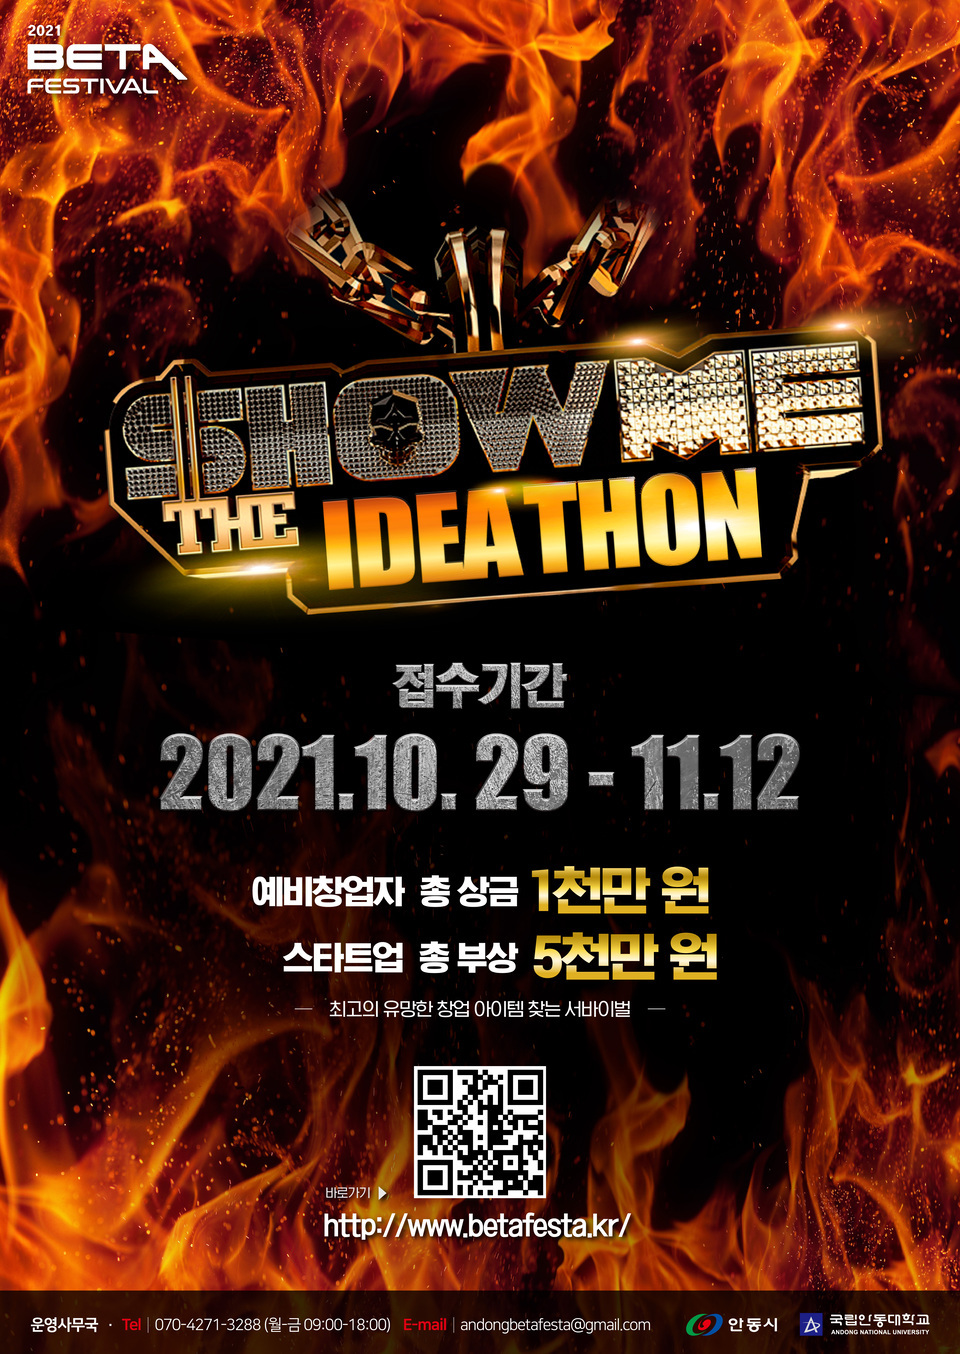
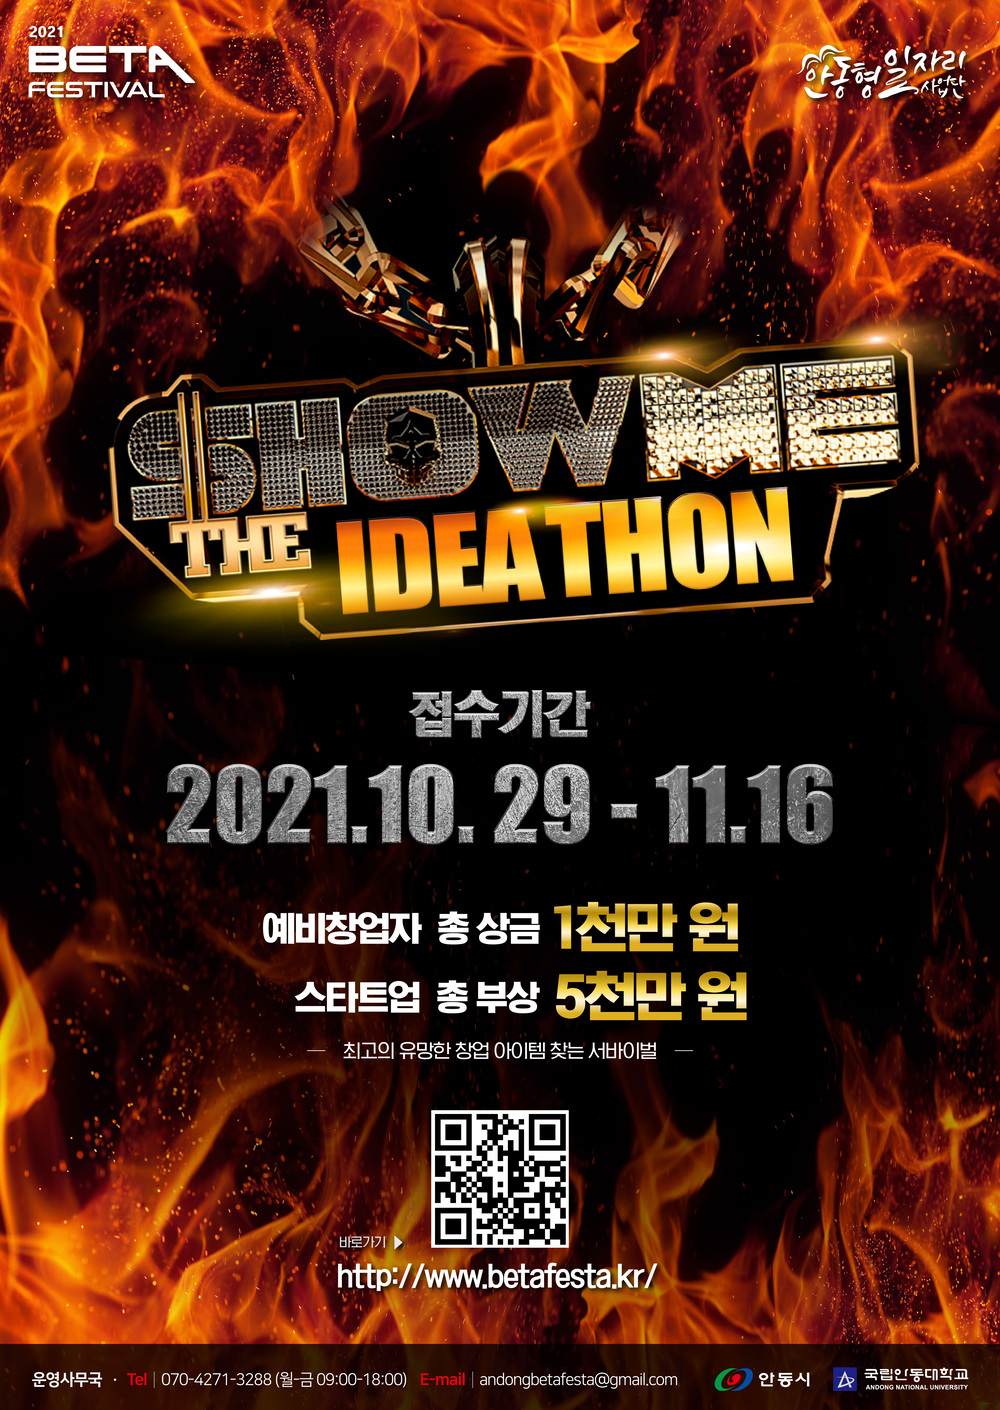
update deadline

diff --git a/components/pages/ideaton/Section1.tsx b/components/pages/ideaton/Section1.tsx
@@ -6,28 +6,20 @@ export const Section1 = () => {
   return (
     <div className={styles.container}>
       <div className={styles.display}>
-        <div className={styles.titleDesktop}>
-          『2021 BETA 페스티벌』 아이디어톤
-        </div>
+        <div className={styles.titleDesktop}>『2021 BETA 페스티벌』 아이디어톤</div>
         <div className={styles.content}>
           <div className={styles.poster}>
             <div className={styles.posterImage}>
-              <Image
-                src="/images/image-ideaton.jpeg"
-                width="960"
-                height="1354"
-              />
+              <Image src="/images/image-ideaton.jpeg" width="960" height="1354" />
             </div>
           </div>
           <div className={styles.info}>
-            <div className={styles.titleMobile}>
-              『2021 BETA 페스티벌』 아이디어톤
-            </div>
+            <div className={styles.titleMobile}>『2021 BETA 페스티벌』 아이디어톤</div>
             <div className={styles.infoContent}>
               <div>일 시</div>
               <div>2021. 11. 18. (목) ~ 2021. 11. 19. (금)</div>
               <div>접수 기간</div>
-              <div>2021. 10. 29. (금) ~ 2021. 11. 12. (금)</div>
+              <div>2021. 10. 29. (금) ~ 2021. 11. 16. (화)</div>
               <div>주최 주관</div>
               <div>안동시 / 안동대학교</div>
               <div>참가 구분</div>
@@ -49,11 +41,7 @@ export const Section1 = () => {
               >
                 공고문 다운받기
               </div>
-              <div
-                onClick={() => openLink("https://forms.gle/tZB2wMkPh8UFm7jY7")}
-              >
-                참가신청
-              </div>
+              <div onClick={() => openLink("https://forms.gle/tZB2wMkPh8UFm7jY7")}>참가신청</div>
             </div>
           </div>
         </div>

diff --git a/components/pages/main/Section2.tsx b/components/pages/main/Section2.tsx
@@ -25,7 +25,7 @@ const parseDate = (date: number) => {
 
 export const Section2 = () => {
   const isMobile = useMobile();
-  const limitDate = dayjs("2021-11-12 23:59:59");
+  const limitDate = dayjs("2021-11-16 23:59:59");
   const [countdown, setCountdown] = useState<Record<string, number>>({
     day: 0,
     hour: 0,
@@ -50,28 +50,13 @@ export const Section2 = () => {
       <div className={styles.display}>
         <div className={styles.title}>
           {isMobile ? (
-            <Image
-              src="/images/section2-title-mobile.png"
-              width="1000"
-              height="500"
-              alt="title"
-            />
+            <Image src="/images/section2-title-mobile.png" width="1000" height="500" alt="title" />
           ) : (
-            <Image
-              src="/images/section2-title.png"
-              width="2000"
-              height="210"
-              alt="title"
-            />
+            <Image src="/images/section2-title.png" width="2000" height="210" alt="title" />
           )}
         </div>
         <div className={styles.subtitle}>
-          <Image
-            src="/images/section2-subtitle.png"
-            width="1200"
-            height="166"
-            alt="title"
-          />
+          <Image src="/images/section2-subtitle.png" width="541" height="66" alt="title" />
         </div>
         <div className={styles.countdown}>
           <div className={styles.led}>
